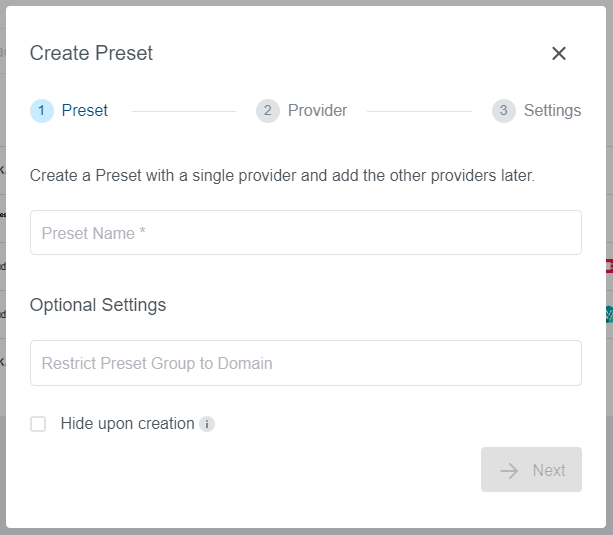
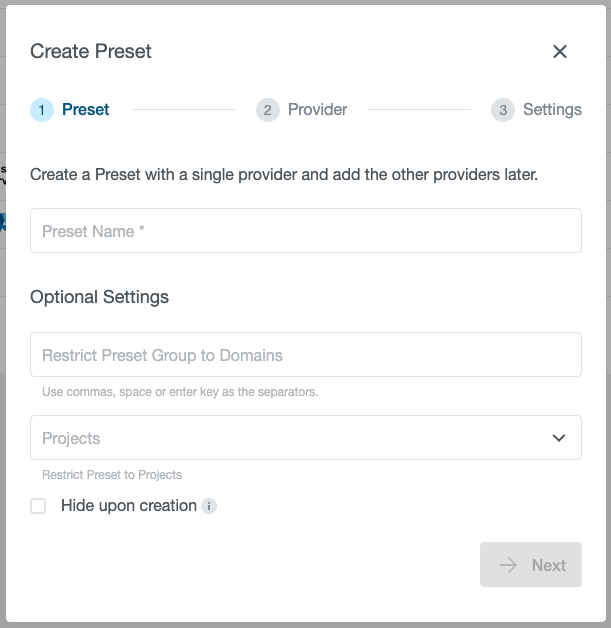
Update preset docs with new feature and kubectl management

diff --git a/content/kubermatic/main/tutorials-howtos/administration/presets/_index.en.md b/content/kubermatic/main/tutorials-howtos/administration/presets/_index.en.md
@@ -5,14 +5,14 @@ weight = 20
 +++
 
 {{% notice note %}}
-Due to the security reasons it will not be possible to read the provider configuration after creation. It will
-only be possible to use and override it.
+Due to security considerations it will not be possible to read provider configuration after creation from the Dashboard.
+It will only be possible to use and override it.
 {{% /notice %}}
 
-Presets give administrators the ability to predefine a set of provider information that then can be used to speed up
+Presets give administrators the ability to predefine a set of provider information that can subsequently be used to speed up
 the cluster creation process. Be aware that a single Preset can contain information about multiple providers.
 
-As an example let's see what kind of information can be set for AWS provider.
+As an example let's see what kind of information can be set for the AWS provider.
 ```yaml
 aws:
   accessKeyID: '<accessKeyID>'
@@ -24,53 +24,55 @@ aws:
   roleARN: '<roleARN>' // optional
 ```
 
+## Managing Presets via the Dashboard
+
 Thankfully, all this can be managed through the Admin Panel in the Kubermatic Dashboard. We'll shortly describe all the important
 features and how to use the preset management.
 
-- ### [Checking Configured Presets](#checking-configured-presets)
-- ### [Creating a Preset](#creating-a-preset)
-- ### [Adding a Provider to the Preset](#adding-a-provider-to-the-preset)
-- ### [Editing a Provider Preset](#editing-a-provider-preset)
-- ### [Showing/Hiding Providers Inside the Preset](#show-hide-provider-inside-the-preset)
-
-## Checking Configured Presets
+### Checking Configured Presets
 
 Preset list offers multiple options that allow Administrators to manage Presets.
 
 ![](/img/kubermatic/main/ui/preset_management.png?height=300px&classes=shadow,border)
 
 1. Create a new Preset
-1. Manage existing Preset
+2. Manage existing Preset
     - Edit Preset (allows showing/hiding specific providers)
     - Add a new provider to the Preset
     - Edit configure provider
-1. Show/Hide the Preset. Allows hiding Presets from the users and block new cluster creation based on them.
-1. A list of providers configured for the Preset.
+3. Show/Hide the Preset. Allows hiding Presets from the users and block new cluster creation based on them.
+4. A list of providers configured for the Preset.
 
 
-## Creating a Preset
+### Creating a Preset
 
 Open the `Create Preset` dialog through the button available on the Preset list.
 
 ![](/img/kubermatic/main/ui/create_preset.png?height=300px&classes=shadow,border)
 
-### 1. Preset Step
+#### Step 1: Preset
 
 ![](/img/kubermatic/main/ui/create_preset_first_step.png?height=500px&classes=shadow,border)
 
-- `Name` is a required parameter and will be used in the wizard to select the provider
-- `Domain` is an optional parameter that allows to limit Preset availability only to the specific users with email matching this domain
-- `Hide upon creation` allows to hide the preset after creation from the users
+- `Name` is a required parameter and will be used in the wizard to select the provider.
+- `Domain` is an optional parameter that allows to limit Preset availability only to the specific users with email matching this domain.
+- `Projects` is an optional list of projects that allows to limit Preset availability to the specific projects.
+- `Hide upon creation` allows to hide the preset after creation from the users.
 
-### 2. Provider Step
+Email domain and project limitations "stack", which means that setting both fields will limit a Preset to be used
+by users with the correct email domain but only within projects for which the Preset is allowed.
+
+Note that project limitations can only be [edited from `kubectl`](#editing-a-preset) after creating a Preset.
+
+#### Step 2: Provider
 
 All configured providers will be available on this step and only a single provider can be selected.
 
 ![](/img/kubermatic/main/ui/create_preset_second_step.png?height=500px&classes=shadow,border)
 
-### 3. Settings Step
+#### Step 3: Settings
 
-Settings step will vary depending on the provider selected in the previous step. In our example, we have selected
+The _Settings_ step will vary depending on the provider selected in the previous step. In our example, we have selected
 an AWS provider.
 
 ![](/img/kubermatic/main/ui/create_preset_third_step.png?height=500px&classes=shadow,border)
@@ -80,8 +82,8 @@ creation.
 
 ![](/img/kubermatic/main/ui/create_preset_third_step_dc.png?height=200px&classes=shadow,border)
 
-`Restrict to Datacenter` field will be available for all providers. It allows Administrators to
-restrict the Preset to a single datacenter. Datacenter names can be found i.e. on the [Dynamic Datacenters]({{< ref "../admin-panel/dynamic-datacenters-management/_index.en.md" >}}) list.
+The `Restrict to Datacenter` field is available for all providers. It allows administrators to
+restrict using the Preset to a single datacenter. Datacenter names can be found i.e. on the [Dynamic Datacenters]({{< ref "../admin-panel/dynamic-datacenters-management/_index.en.md" >}}) list.
 
 {{% notice note %}}
 Make sure to use actual datacenter names and not the display names that are used i.e. in the wizard while creating the clusters.
@@ -89,52 +91,148 @@ Make sure to use actual datacenter names and not the display names that are used
 
 ![](/img/kubermatic/main/ui/datacenter_names.png?height=300px&classes=shadow,border "Dynamic Datacenter Names")
 
-## Adding a Provider to the Preset
+### Adding a Provider to the Preset
 
 Open `Add Provider` option through dotted menu on the Preset list entry. Note that it will only be available if not all
 available providers were configured for the Preset.
 
 ![](/img/kubermatic/main/ui/add_provider.png?height=300px&classes=shadow,border)
 
-### 1. Provider Step
+#### Step 1: Provider
 
 Select a provider you would like to add to the Preset. In our example, we have selected an AWS provider. Note that every
 provider can be configured only once for the Preset and only providers that are not already configured will appear on the list.
 
 ![](/img/kubermatic/main/ui/add_provider_first_step.png?height=500px&classes=shadow,border)
 
-### 2. Settings Step
+#### Step 2: Settings
 
 Provider specific fields will be available to fill out, same as during the Preset creation process.
 
 ![](/img/kubermatic/main/ui/add_provider_second_step.png?height=500px&classes=shadow,border)
 
-## Editing a Provider Preset
+### Editing a Provider Preset
+
+{{% notice note %}}
+Updating a Provider Preset does not update credentials used by clusters already created
+from said Preset.
+{{% /notice %}}
 
 Open `Edit Provider` option through dotted menu on the Preset list entry.
 
 ![](/img/kubermatic/main/ui/edit_provider.png?height=250px&classes=shadow,border)
 
-### 1. Provider Step
+#### Step 1: Provider
 
 Select a provider you would like to add to the Preset. In our example, we have selected an Openstack provider. Note that every
 only already configured providers are available on the list.
 
 ![](/img/kubermatic/main/ui/edit_provider_first_step.png?height=350px&classes=shadow,border)
 
-### 2. Settings Step
+#### Step 2: Settings
 
 Provider specific fields will be available to fill out, same as during the Preset creation process.
 
 ![](/img/kubermatic/main/ui/edit_provider_second_step.png?height=500px&classes=shadow,border)
 
-## Showing/Hiding Providers Inside the Preset {#show-hide-provider-inside-the-preset}
+### Showing/Hiding Providers Inside the Preset {#show-hide-provider-inside-the-preset}
 
 Open `Edit Preset` option through dotted menu on the Preset list entry.
 
 ![](/img/kubermatic/main/ui/edit_preset.png?height=250px&classes=shadow,border)
 
-It allows managing the Preset status on the per-provider basis. In case only a specific provider should
+This dialog allows managing the Preset status on a per-provider basis. In case only a specific provider should
 be hidden/shown instead of hiding the whole Preset it can be managed here.
 
 ![](/img/kubermatic/main/ui/edit_preset_dialog.png?height=400px&classes=shadow,border)
+
+## Managing Presets via kubectl
+
+While the Kubermatic Dashboard offers easy options to manage Presets, it is also possible to use `kubectl`
+on the Master Cluster to manage them. This can be useful for automation (e.g. GitOps workflows).
+
+{{% notice warning %}}
+Since Presets can contain sensitive information, ensure that access to `Preset` resources is limited to KKP administrators.
+Credentials with RBAC access to them (e.g. by binding the `cluster-admin` ClusterRole) must not be provided to end users.
+{{% /notice %}}
+
+Presets are stored in the [`Preset` Custom Resource]({{< ref "../../../references/crds/#preset" >}}). Check out the full
+CRD reference for details on all available fields.
+
+### Checking Configured Presets
+
+As Presets are Kubernetes API resources created by KKP CRDs, they can be interacted with via `kubectl` standard
+operations, e.g. to list available Presets:
+
+```bash
+kubectl get presets
+#NAME                     AGE
+#my-preset                26h
+#my-second-preset         21h
+```
+
+Configuration for specific presets can be viewed by providing the `-o yaml` flag:
+
+```bash
+kubectl get preset my-preset -o yaml
+```
+
+Output will look similar to the YAML provided below. This contains sensitive data (cloud provider credentials),
+so be mindful of exposing the output of this command to others.
+
+```yaml
+apiVersion: kubermatic.k8c.io/v1
+kind: Preset
+metadata:
+  name: my-preset
+  # [...]
+spec:
+  digitalocean:
+    token: do-token
+  hetzner:
+    token: hetzner-token
+  enabled: true
+  requiredEmails:
+  - kubermatic.com
+  projects:
+  - abm95xj85g
+```
+
+The example Preset above configures DigitalOcean and Hetzner as providers, is active (`enabled`), requires users to
+have an email address with `@kubermatic.com` and can only be used in a project with the ID `abm95xj85g`.
+It is important to note that this is the project ID and not the "human-readable" name.
+
+### Creating a Preset
+
+Presets can also be created via `kubectl`. As with any other Kubernetes resource, you will neec to draft a YAML file
+for it and then create/apply it. The YAML example above can be re-used to start creating a `Preset` resource. For respective
+fields for each provider, check out the [PresetSpec CRD reference]({{< ref "../../../references/crds/#presetspec" >}}).
+
+Each provider implementation has different fields, but the `Preset` specification itself supports a few keys
+that have already been mentioned above:
+
+- `spec.enabled`: whether the Preset is shown to users in the Kubermatic Dashboard.
+- `spec.requiredEmails`: A list of user email domains that this Preset is restricted to.
+- `spec.projects`: A list of projects that this Preset is restricted to.
+
+Each provider section, apart from provider-specific fields, also offers the following two keys:
+
+- `spec.<provider>.enabled`: whether the specific provider in this Preset is shown to users in the Kubermatic Dashboard.
+- `spec.<provider>.datacenter`: restricts this provider to a specific datacenter.
+
+After finishing the YAML file, apply it:
+
+```bash
+kubectl apply -f ./preset.yaml
+```
+
+### Editing a Preset
+
+As with other Kubernetes API resources, already created Presets can be edited with `kubectl`.
+
+```bash
+kubectl edit preset my-preset
+```
+
+This will open the editor configured for `kubectl edit` and let you update the YAML specification.
+It is possible to update any fields already present or add/remove provider sections from the `Preset`.

diff --git a/content/kubermatic/main/tutorials-howtos/project-and-cluster-management/_index.en.md b/content/kubermatic/main/tutorials-howtos/project-and-cluster-management/_index.en.md
@@ -69,7 +69,7 @@ Disabling the User SSH Key Agent at this point can not be reverted after the clu
 ![General Cluster Settings](/img/kubermatic/main/tutorials/wizard_step_2.png?classes=shadow,border "General Cluster Settings")
 
 
-In the next step of the installer, enter the credentials for the chosen provider. A good option is to use Kubermatic Presets here, which is `loodse` in this case, instead putting in credentials for every cluster creation:
+In the next step of the installer, enter the credentials for the chosen provider. A good option is to use [Presets]({{< ref "../administration/presets/" >}}) instead putting in credentials for every cluster creation:
 
 ![Provider Credentials](/img/kubermatic/main/tutorials/wizard_step_3.png?classes=shadow,border "Provider Credentials")
 
@@ -85,7 +85,7 @@ You will then be forwarded to the cluster page where you can view the cluster cr
 
 ![Cluster Details in Creation State](/img/kubermatic/main/tutorials/cluster_details_after_creation.png?classes=shadow,border "Cluster Details in Creation State")
 
-After all of the master components are ready, your cluster will create the configured number of worker nodes. Fully created nodes will be marked with a green dot, pending ones with a yellow circle. Clicking on the download icon lets you download the kubeconfig to be able to use `kubectl` with your cluster.
+After all of the control plane components are ready, your cluster will create the configured number of worker nodes. Fully created nodes will be marked with a green dot, pending ones with a yellow circle. Clicking on the download icon lets you download the kubeconfig to be able to use `kubectl` with your cluster.
 
 ![Cluster Created](/img/kubermatic/main/tutorials/cluster_details_overview.png?classes=shadow,border "Cluster Created")
 
